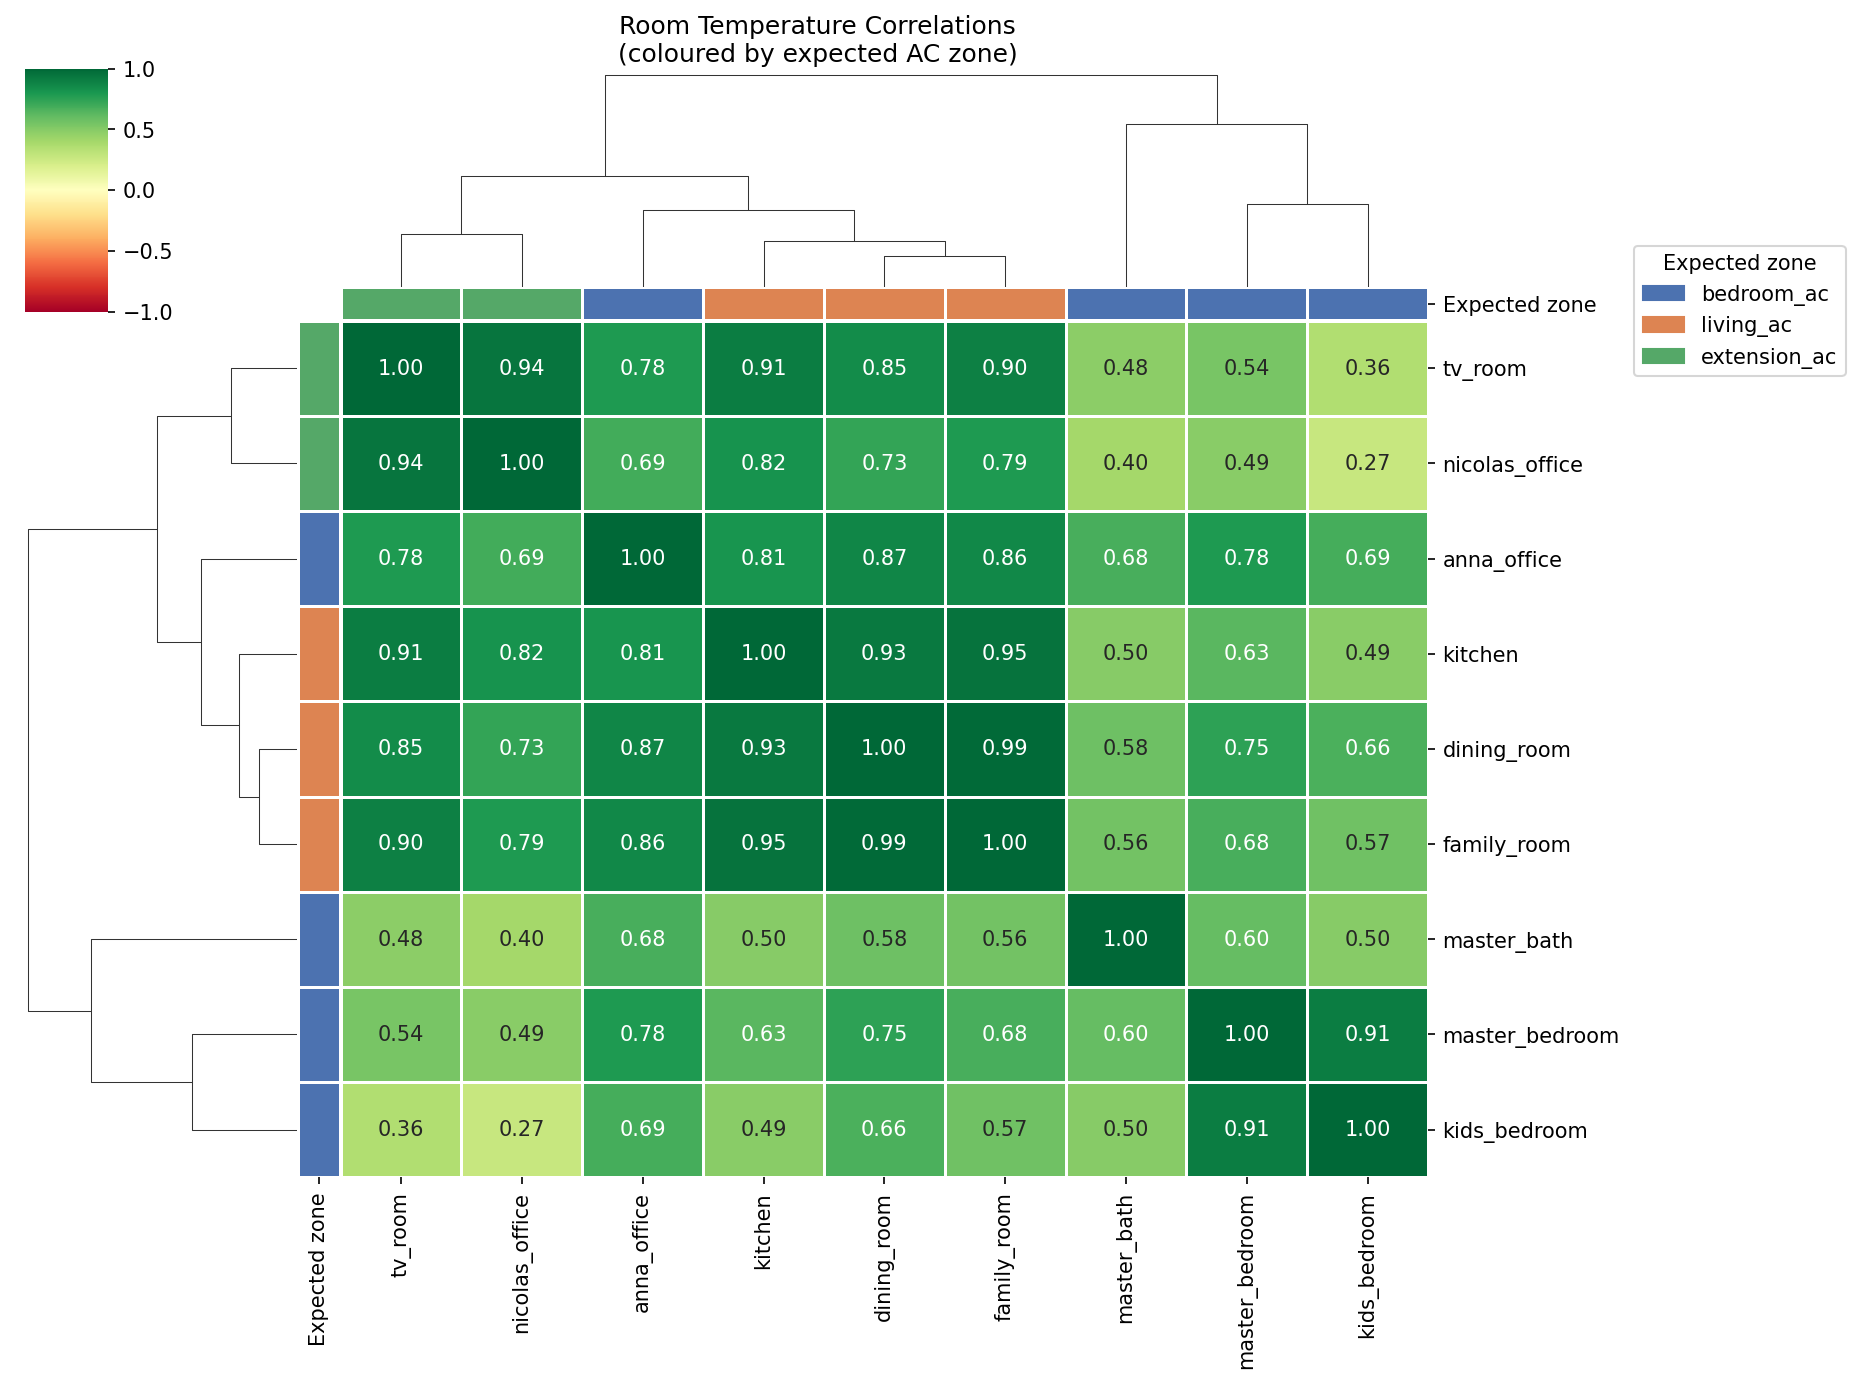
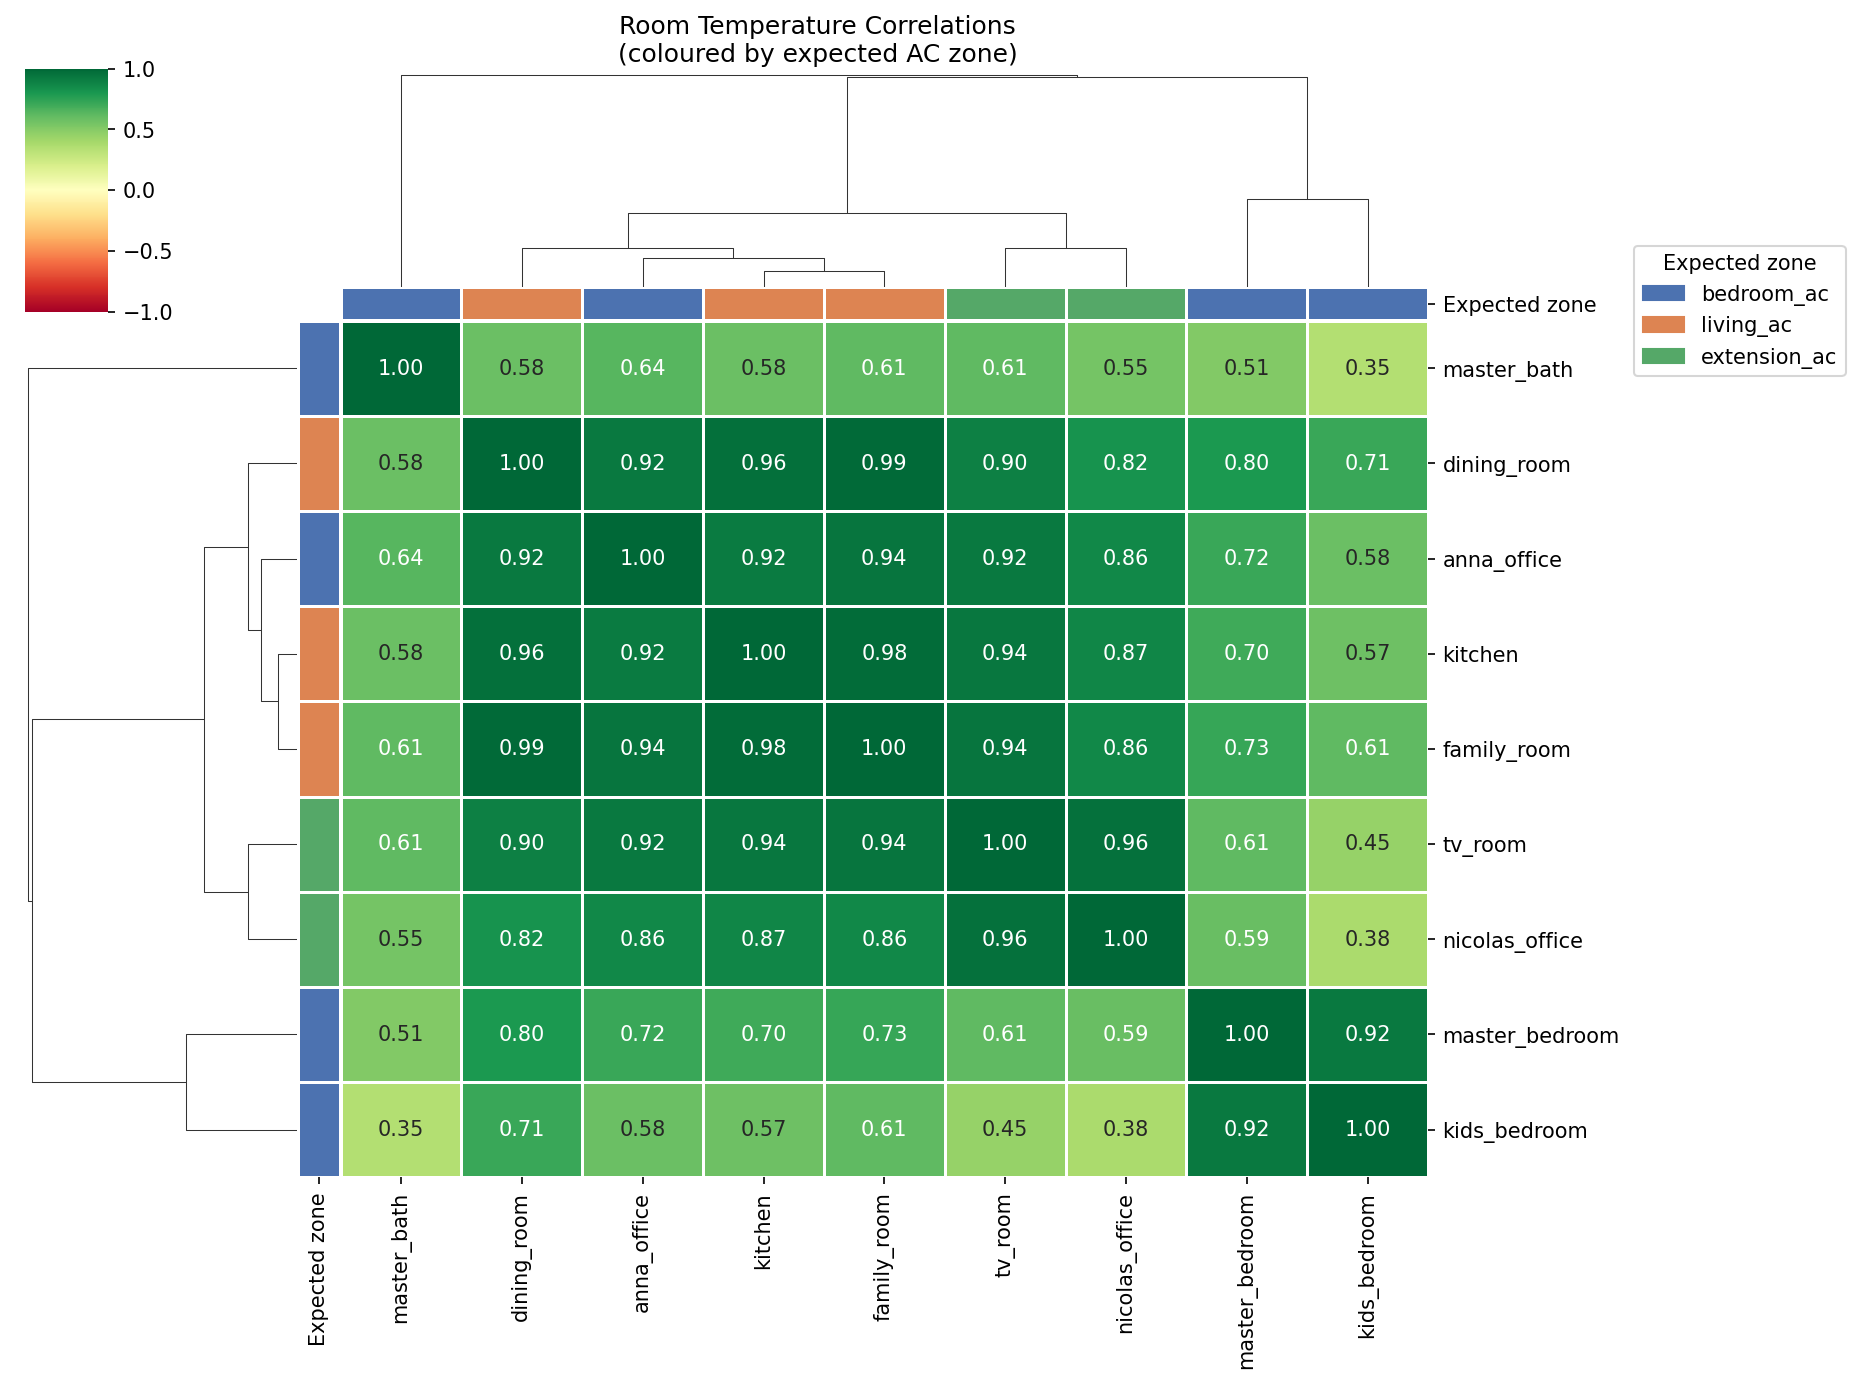
Update sanity_check to daily median resampling
At daily resolution bedroom_ac within-zone avg (0.62) drops below
bedroom_ac↔living_ac between-zone avg (0.72), confirming that
sub-daily sampling is needed to capture AC cycling signal.

https://claude.ai/code/session_01ScqMSKZayTWj52gyTgZcQF

diff --git a/thermal_control/sanity_check.py b/thermal_control/sanity_check.py
@@ -18,7 +18,7 @@ import seaborn as sns
 # ── Config ────────────────────────────────────────────────────────────────
 CSV_PATH      = "homeassistant_temp.csv"
 SENTINEL_F    = -10.0   # Zigbee dropout sentinel
-RESAMPLE      = "2h"
+RESAMPLE      = "1D"
 OUTPUT_PNG    = "thermal_control/sanity_check_correlation.png"
 
 ROOM_COLUMNS = {